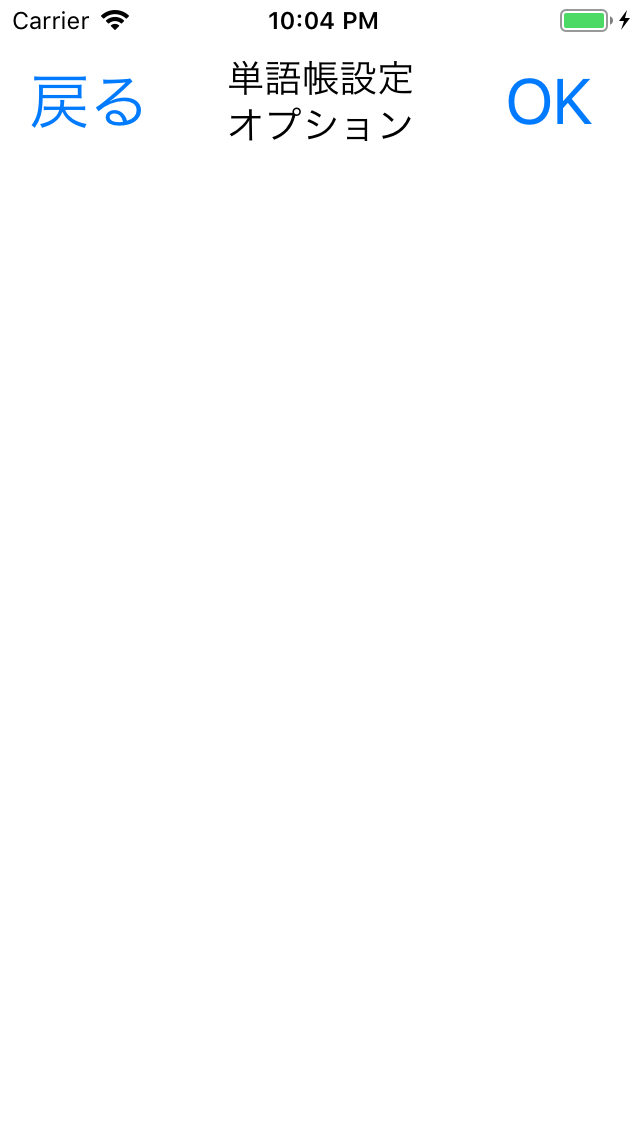
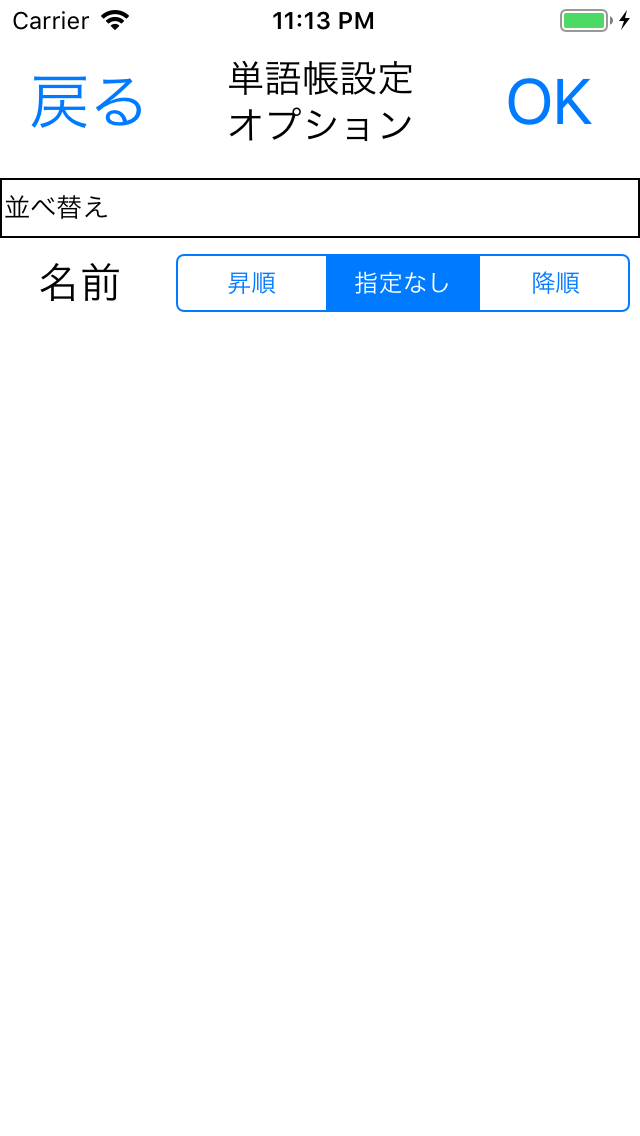
単語帳設定オプション画面で単語帳設定画面に表示される単語のソートをできるように実装

diff --git a/EnglishWords/EnglishWords/OptionConfigureWordNoteViewController.swift b/EnglishWords/EnglishWords/OptionConfigureWordNoteViewController.swift
@@ -12,8 +12,13 @@ import UIKit
 class OptionConfigureWordNoteViewController: UIViewController{
     
     @IBOutlet var viewName: UILabel!
+    @IBOutlet var wordNameSegmentedControl: UISegmentedControl!
 
     var wordnotebook: WordNoteBook?
+    
+    var querykeylist: [String] = []
+    var orderlist: [Bool] = []
+
 
     override func viewDidLoad() {
         super.viewDidLoad()
@@ -22,14 +27,22 @@ class OptionConfigureWordNoteViewController: UIViewController{
         viewName.text = "単語帳設定\nオプション"
         viewName.numberOfLines = 2
         
-        
+        // ボタンを選択中にする場所を指定
+        wordNameSegmentedControl.selectedSegmentIndex = 1
+        // ボタン選択時にボタンを選択状態にするかどうかの設定
+        wordNameSegmentedControl.isMomentary = false
+
+    }
+    
+    override func didReceiveMemoryWarning() {
+        super.didReceiveMemoryWarning()
     }
     
     @IBAction func buttonTapped(sender: UIButton) {
-        if(sender.tag == 0){
-            performSegue(withIdentifier: "returnToConfigureWordNoteViewController",sender: nil)
-        }else if(sender.tag == 1){
+        if(sender.tag == 1){
+            makeQuery(segmentedcontrol: wordNameSegmentedControl, attribute: "word.wordName")
         }
+        performSegue(withIdentifier: "returnToConfigureWordNoteViewController",sender: nil)
     }
     
     // Segue 準備
@@ -37,6 +50,24 @@ class OptionConfigureWordNoteViewController: UIViewController{
         if (segue.identifier == "returnToConfigureWordNoteViewController") {
             let cwnbVC: ConfigureWordNoteBookViewController = (segue.destination as? ConfigureWordNoteBookViewController)!
             cwnbVC.wordnotebook = wordnotebook
+            cwnbVC.querykeylist = querykeylist
+            cwnbVC.orderlist = orderlist
+        }
+    }
+    
+    //指定された条件をもとにRealmへの検索条件を作成するメソッド
+    func makeQuery(segmentedcontrol: UISegmentedControl,attribute: String){
+        //ソート条件を作る
+            switch segmentedcontrol.selectedSegmentIndex {
+            case 0: //昇順
+                querykeylist.append(attribute)
+                orderlist.append(true)
+            //case 1: //指定なし
+            case 2: //降順
+                querykeylist.append(attribute)
+                orderlist.append(false)
+            default:
+                break
         }
     }
     

diff --git a/EnglishWords/EnglishWords/ConfigureWordNoteBookViewController.swift b/EnglishWords/EnglishWords/ConfigureWordNoteBookViewController.swift
@@ -20,6 +20,8 @@ class ConfigureWordNoteBookViewController: UIViewController, UITableViewDelegate
     var wordlist: [WordNote] = []
     var card: WordNote?
     var wordnotebook: WordNoteBook?
+    var querykeylist: [String] = []
+    var orderlist: [Bool] = []
     
     let sidebarlist = ["単語追加","確認テスト","エクスポート","オプション"]
     
@@ -27,7 +29,12 @@ class ConfigureWordNoteBookViewController: UIViewController, UITableViewDelegate
         super.viewDidLoad()
         //データベース内に保存してあるWordNoteを全て取得
         let realm: Realm = try! Realm()
-        let results = realm.objects(WordNote.self).filter("wordnotebook.wordNoteBookId == %@",wordnotebook?.wordNoteBookId).sorted(byKeyPath: "wordidx", ascending: true)
+        var results = realm.objects(WordNote.self).filter("wordnotebook.wordNoteBookId == %@",wordnotebook?.wordNoteBookId).sorted(byKeyPath: "wordidx", ascending: true)
+        
+        for i in 0..<querykeylist.count{
+            results = results.sorted(byKeyPath: querykeylist[i], ascending: orderlist[i])
+        }
+        
         wordlist = Array(results)
 
         //単語帳名ラベルに単語帳名を設定する
